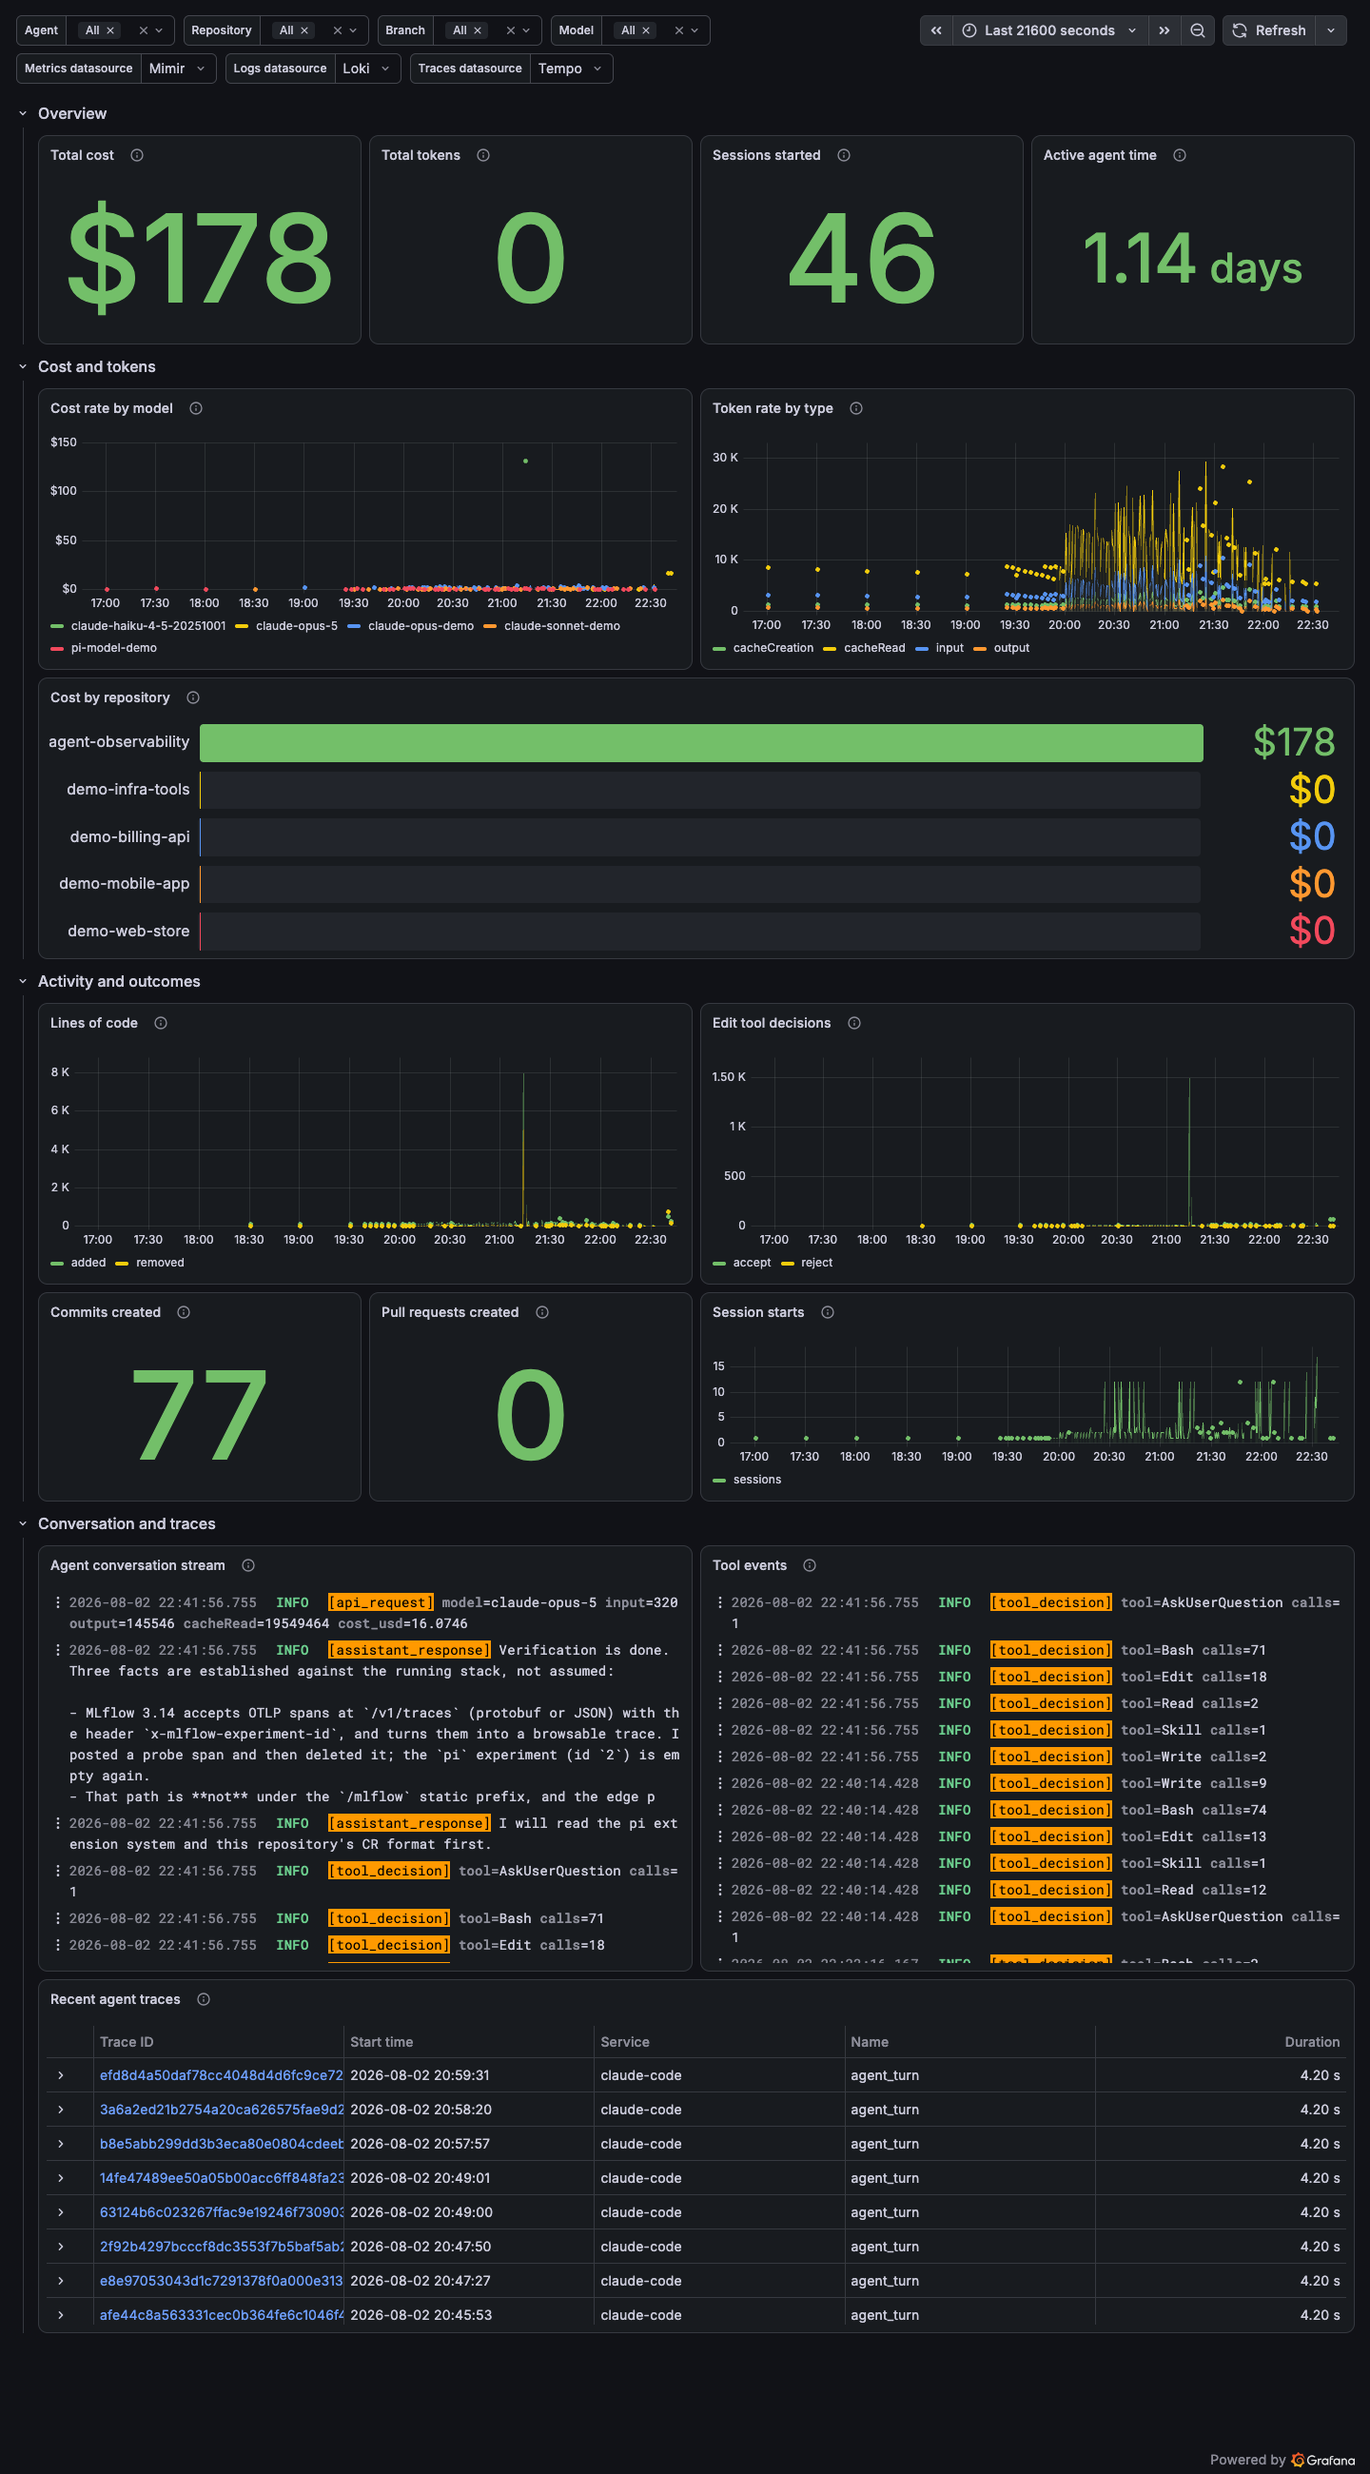
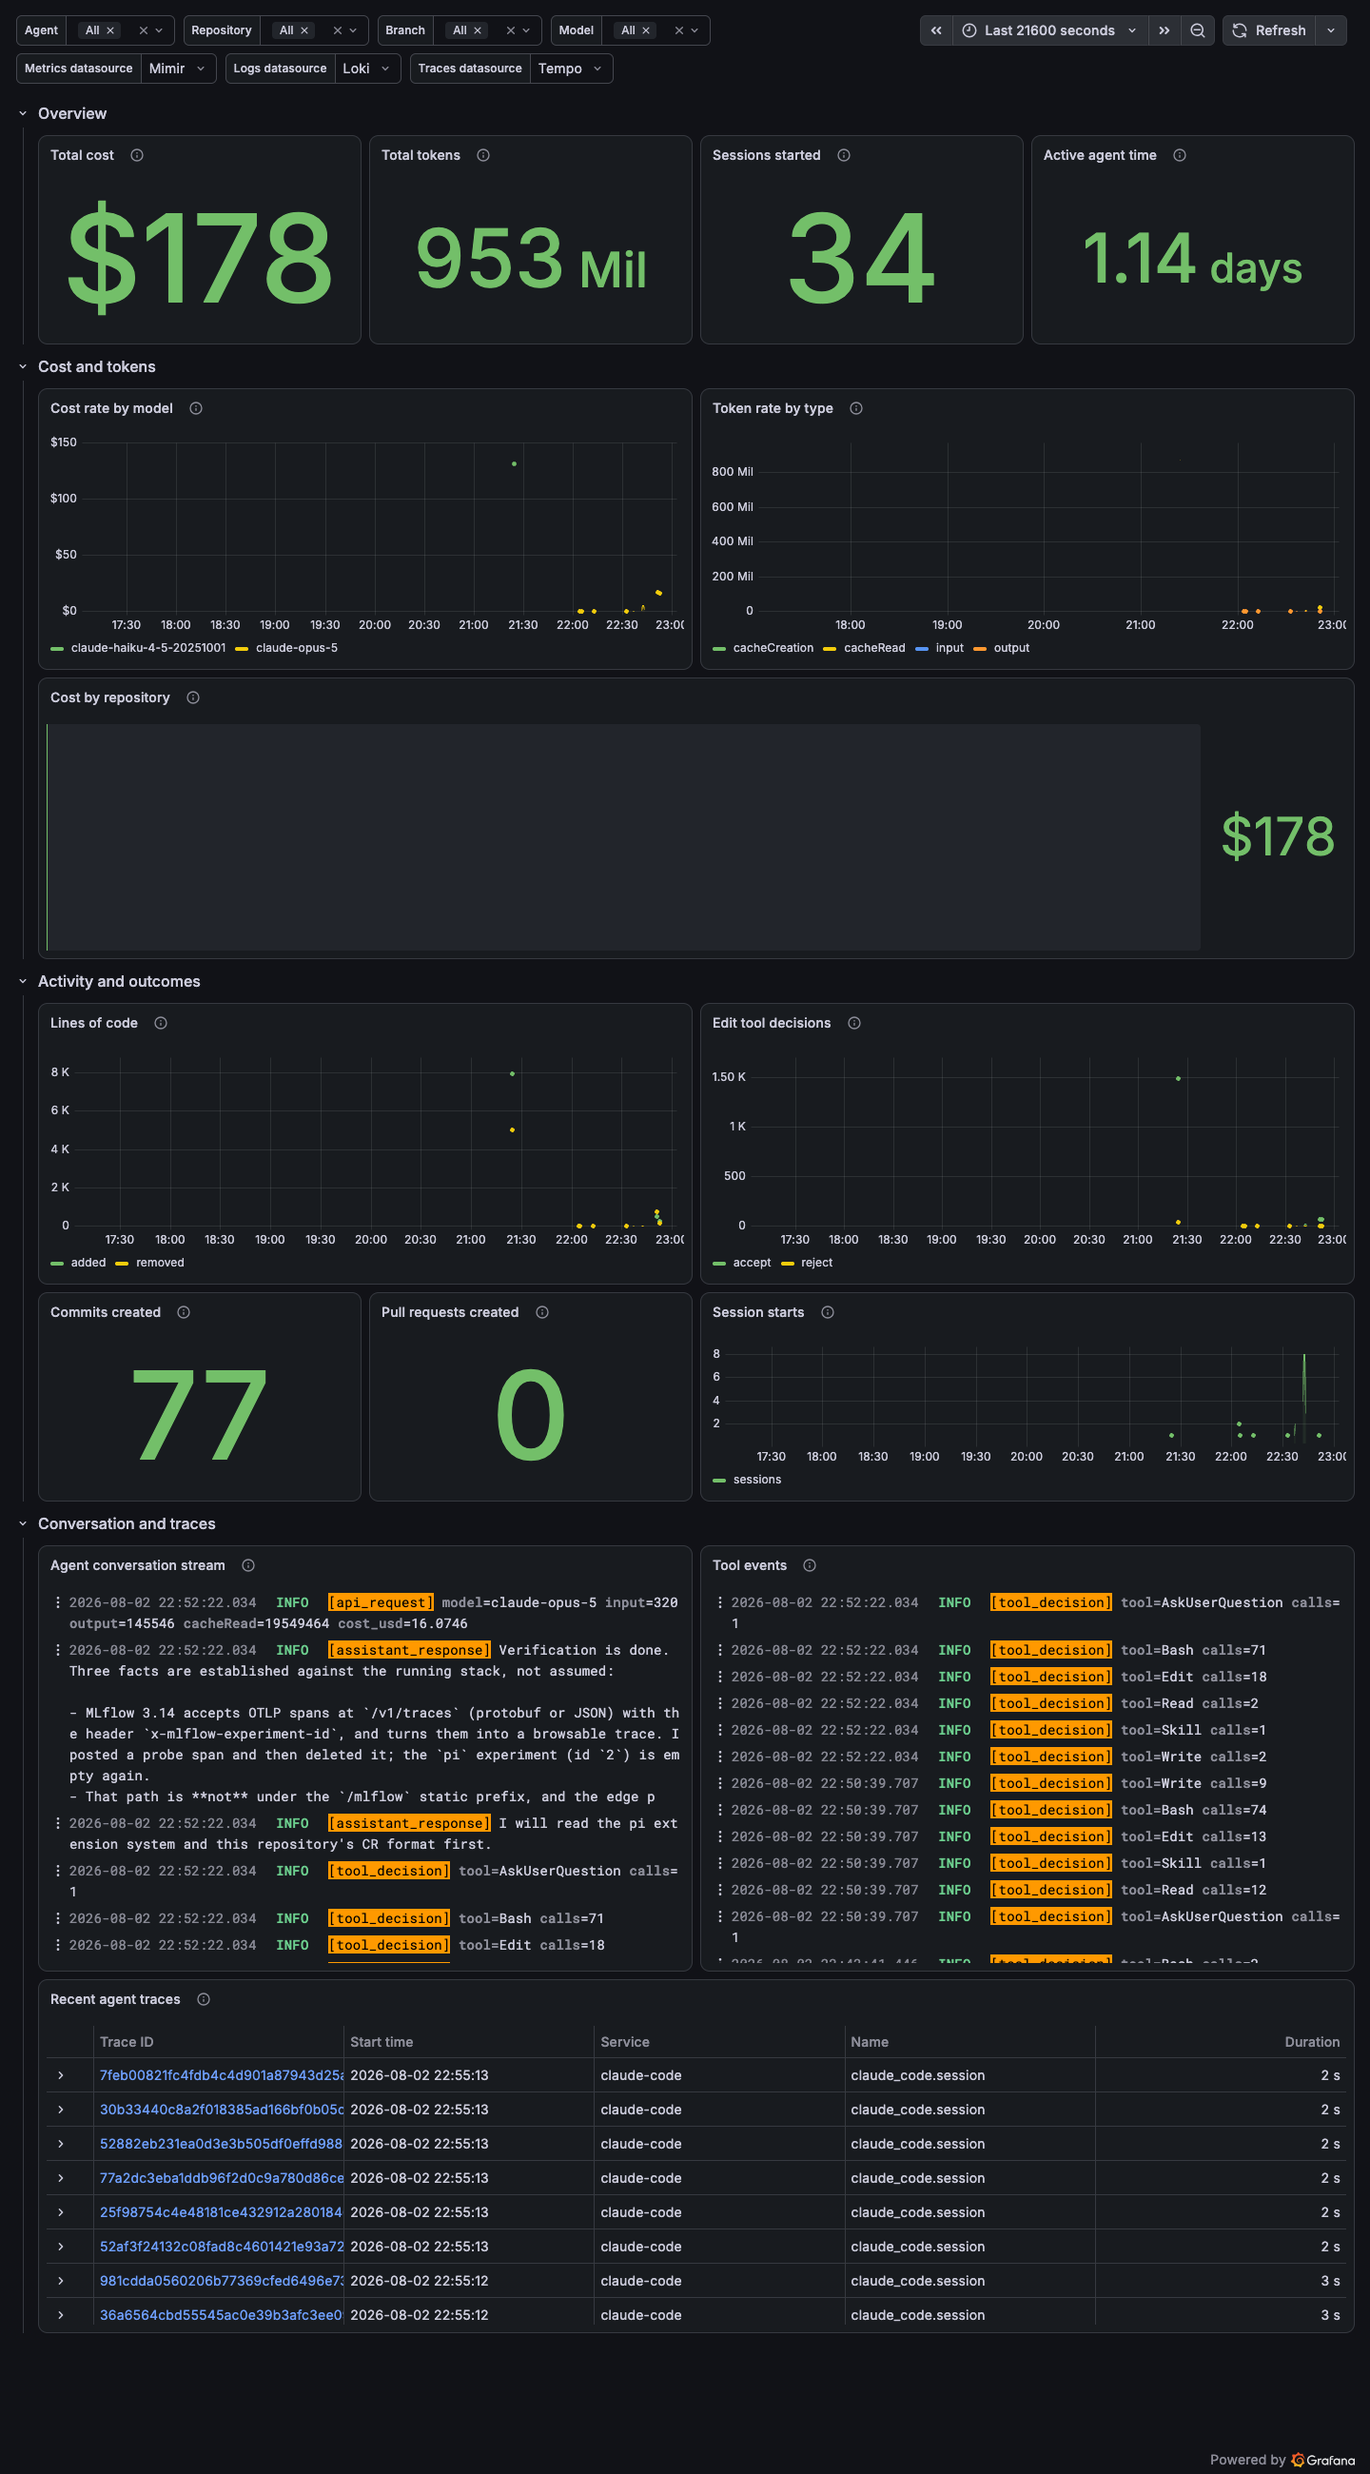
checkpoint(CR-0007-iterate): re-import clean, add MLflow conversations, recapture
Attempt 4 left the label set changed, so a re-import would have double
counted until the volumes were wiped, and the conversation view still
showed seeded data because the importer wrote no MLflow traces.

- scripts/transcript.import.mlflow.py: writes the richest imported
  sessions as MLflow conversation traces, a turn span per exchange with
  a tool span beneath it, plus a span per subagent.
- scripts/transcript.import.sh: runs it after the OTLP write, and skips
  rather than fails when uv is absent, since the dashboard is already
  populated by that point.
- scripts/capture.screenshots.sh: no longer keys MLflow navigation on a
  seed-specific request string.
- Volumes wiped, stack rebuilt, transcripts re-imported, images recaptured.

The wipe was verified against the right target first: this directory
resolves to project agent-observability on 24417, and the separate
project holding real telemetry was confirmed still running afterwards.

One marker in the store now. Total tokens reads 953,038,772 both with
and without the model filter, so the Attempt 4 defect is fixed and there
is no double count. 34 sessions, $177.79, 77 commits, 8 conversations.

make ci initially failed correctly: the AGENTS.md verifier asserts every
documented metric family exists in the store, and a Claude-Code-only
import leaves the pi_* families absent. Fixed by restoring them with the
seed rather than by weakening the assertion. make ci now exits 0.
[…]

diff --git a/scripts/transcript.import.mlflow.py b/scripts/transcript.import.mlflow.py
@@ -1,0 +1,134 @@
+"""Write imported agent sessions into MLflow as browsable conversation traces.
+
+@agents-index Reads the session summaries the transcript importer produced and writes each as one MLflow trace, a root conversation span with a turn span per exchange and a tool span beneath it, tagged so it is distinguishable from seeded data.
+
+Purpose: the dashboard, the log view, and the trace view all populate from the
+main importer, but the conversation view is MLflow's, and MLflow needs a client
+rather than an OTLP push. That client is version-matched and resolved through uv,
+the same way the demo seed resolves it, so this runs as a separate step rather
+than inside the stdlib-only importer.
+
+Why a separate file: the main importer deliberately depends on nothing outside
+the standard library, so it runs anywhere python3 does. Bringing MLflow into it
+would put a resolved dependency in the path of the metric, log, and trace write,
+which is the part that must not fail for want of a package.
+
+Shape of a written trace, mirroring what live conversation tracing produces:
+
+  root    the conversation, carrying the session identifier and the model
+  turn    one span per exchange, with the token counts and computed cost
+  tool    one span per tool the turn used, with the call count
+
+Every trace is tagged `session_import=true` and `git.org=session-import`, so it
+is selectable and distinguishable from a seeded conversation at a glance.
+
+Usage (invoked by scripts/transcript.import.sh, not directly):
+  uv run --python 3.12 --with mlflow==3.14.0 python \
+      scripts/transcript.import.mlflow.py SUMMARIES_JSON
+
+Environment:
+  MLFLOW_TRACKING_URI   The tracking server, through the single edge port.
+"""
+
+import json
+import os
+import sys
+
+import mlflow
+
+# How many conversations to write. The view is for browsing rather than for
+# bulk, and every session already appears in the metric, log, and trace stores,
+# so a handful of the richest sessions is the useful shape rather than all of
+# them.
+MAX_CONVERSATIONS = 8
+
+
+def main():
+    if len(sys.argv) < 2:
+        print("import-mlflow: FAIL no summaries file was given.", file=sys.stderr)
+        print("  Fix: this script is invoked by scripts/transcript.import.sh, which passes the path.", file=sys.stderr)
+        print("  After: run 'scripts/transcript.import.sh' rather than this file directly.", file=sys.stderr)
+        sys.exit(2)
+
+    with open(sys.argv[1]) as fh:
+        sessions = json.load(fh)
+
+    # Richest first: a conversation with more turns shows more of the shape.
+    sessions.sort(key=lambda s: (-s.get("turns", 0), s.get("id", "")))
+    sessions = sessions[:MAX_CONVERSATIONS]
+
+    mlflow.set_tracking_uri(os.environ["MLFLOW_TRACKING_URI"])
+    mlflow.set_experiment("claude-code")
+
+    written = 0
+    for s in sessions:
+        prompts = s.get("prompts") or []
+        responses = s.get("responses") or []
+        if not prompts and not responses:
+            continue
+        model = s.get("model") or "unknown"
+        turns = max(1, min(len(prompts), len(responses)) or 1)
+        # Cost and tokens are the session totals, so attribute a proportional
+        # share to each turn rather than repeating the whole figure on each one.
+        per_turn_cost = (s.get("cost") or 0.0) / turns
+        per_turn_in = (s.get("input", 0) + s.get("cacheRead", 0)) // turns
+        per_turn_out = (s.get("output", 0)) // turns
+        tools = sorted((s.get("tools") or {}).items(), key=lambda kv: -kv[1])
+
+        with mlflow.start_span(name="agent_conversation", span_type="AGENT") as root:
+            root.set_inputs({"messages": [{"role": "user", "content": p} for p in prompts[:2]]})
+            mlflow.update_current_trace(
+                tags={
+                    "session_import": "true",
+                    "git.org": "session-import",
+                    "git.repo": s.get("repo") or "agent-observability",
+                    "session.id": s.get("id", "")[:8],
+                    "model": model,
+                }
+            )
+            for idx in range(turns):
+                prompt = prompts[idx] if idx < len(prompts) else ""
+                response = responses[idx] if idx < len(responses) else ""
+                with mlflow.start_span(name=f"assistant_turn_{idx + 1}", span_type="LLM") as turn:
+                    turn.set_inputs({"prompt": prompt})
+                    turn.set_attributes(
+                        {
+                            "model": model,
+                            "tokens.input": per_turn_in,
+                            "tokens.output": per_turn_out,
+                            "cost_usd": round(per_turn_cost, 4),
+                        }
+                    )
+                    # One tool span per turn, cycling through the tools the
+                    # session actually used, so the nesting is visible.
+                    if tools:
+                        name, count = tools[idx % len(tools)]
+                        with mlflow.start_span(name=name, span_type="TOOL") as tool:
+                            tool.set_inputs({"tool": name})
+                            tool.set_outputs({"calls_in_session": count})
+                    turn.set_outputs({"response": response})
+
+            # A subagent that ran in this session becomes its own span, because
+            # that relationship exists nowhere else in the stack.
+            for sub in (s.get("subagents") or [])[:3]:
+                with mlflow.start_span(name=f"subagent:{sub['type']}", span_type="AGENT") as sp:
+                    sp.set_inputs({"agent_type": sub["type"], "model": sub.get("model")})
+                    sp.set_attributes(
+                        {
+                            "duration_s": round((sub.get("ms") or 0) / 1000.0, 1),
+                            "tokens.total": sub.get("tokens") or 0,
+                            "tool_uses": sub.get("tool_uses") or 0,
+                        }
+                    )
+                    sp.set_outputs({"status": sub.get("status")})
+
+            root.set_outputs(
+                {"messages": [{"role": "assistant", "content": r} for r in responses[:2]]}
+            )
+        written += 1
+
+    print(f"import-mlflow: wrote {written} conversation trace(s)")
+
+
+if __name__ == "__main__":
+    main()

diff --git a/scripts/transcript.import.py b/scripts/transcript.import.py
@@ -574,6 +574,9 @@ def main():
     parser.add_argument("--dry-run", action="store_true")
     parser.add_argument("--transcripts", default=None)
     parser.add_argument("--repo-root", default=None)
+    # Written for the MLflow step, which runs under a resolved client rather
+    # than in this stdlib-only process. See transcript.import.mlflow.py.
+    parser.add_argument("--summaries-out", default=None)
     args = parser.parse_args()
 
     repo_root = args.repo_root or os.getcwd()
@@ -629,6 +632,16 @@ def main():
                 )
         emit_trace(base_url, summary, repo_name, args.dry_run)
         written += 1
+
+    if args.summaries_out:
+        payload = []
+        for s in ordered:
+            row = dict(s)
+            row["cost"] = session_cost(s, pricing, set())
+            row["repo"] = repo_name
+            payload.append(row)
+        with open(args.summaries_out, "w") as fh:
+            json.dump(payload, fh)
 
     subagent_total = sum(len(s["subagents"]) for s in ordered)
     tool_total = sum(sum(s["tools"].values()) for s in ordered)

diff --git a/docs/cr/CR-0007-iterate.md b/docs/cr/CR-0007-iterate.md
@@ -130,11 +130,30 @@ worktree: "/Users/desek/Repo/desek/experiments/agent-observability"
 
 * **Supersedes:** nothing. Attempt 3 chose the span this importer reuses.
 
+### Attempt 5 — wipe, re-import clean, write MLflow conversations, and recapture
+
+* **Change:** `scripts/transcript.import.mlflow.py` writes the richest imported sessions into MLflow as conversation traces, with a turn span per exchange, a tool span beneath it, and a span per subagent. `scripts/transcript.import.sh` runs it after the metric, log, and trace write. `scripts/capture.screenshots.sh` no longer keys the MLflow navigation on a seed-specific request string. Volumes wiped, stack rebuilt, transcripts re-imported, both images recaptured.
+
+* **Reason:** Attempt 4 left the label set changed, so a re-import would have double counted until the volumes were wiped, and the conversation view still showed seeded data because the importer wrote no MLflow traces.
+
+* **Evidence:** the wipe was verified against the right target before it ran. This directory resolves to compose project `agent-observability` on port 24417; the other project on 24417's neighbour, `observability` on 24317, holds the real telemetry and was confirmed still running afterwards.
+
+  After the clean import the store holds one marker, `session-import`. Total tokens now reads 953,038,772 both with and without the model filter, which is the Attempt 4 defect fixed and the double count absent. 34 sessions, $177.79, 77 commits, 8 MLflow conversation traces.
+
+  `make ci` initially failed, correctly. The AGENTS.md verifier asserts that every metric family the documentation names exists in the store, and a Claude-Code-only import leaves the `pi_*` families absent. That is the check working rather than a fault in it, so the fix was to restore the families by seeding rather than to weaken the assertion. `make ci` then exits 0, read as an exit code rather than inferred from the last line.
+
+  A privacy incident occurred during this attempt and is recorded here because the cause is a property of the tooling rather than a one-off slip. Debugging the MLflow navigation outside the capture script's own flow, a bare screenshot captured the author's personal browser rather than the stack: agent-browser drives a persistent session that is the real browser, so a screenshot with no preceding navigation photographs whatever the active target is. The frame was deleted immediately and reached no commit; both committed images were confirmed to be the Grafana and MLflow interfaces. The capture script itself is protected only by ordering, because it navigates with `ab open` immediately before each frame, and that is a thinner margin than it looks for a script whose output is a public image. A recording is worse than a still, since it captures the whole duration rather than one moment. Pinning the capture to an isolated browser profile is the durable fix and is not done here.
+
+  The MLflow navigation was diagnosed but not fixed. Two overlays intercept the click, a first-visit guidance popover and the MLflow Assistant panel, and the correct handle is the snapshot-and-ref workflow rather than a CSS or text selector. The captured conversation image therefore still shows the trace list rather than an expanded conversation, which the author accepted for now.
+
+* **Supersedes:** nothing. Attempt 4 introduced the importer this completes.
+
 ## What Stands Now
 
 * The stack holds the real work: 34 imported sessions, 2815 tool calls, 57 subagents, cost computed from a pinned price table rather than invented.
 * Screenshot capture permits imported data only behind `CAPTURE_ALLOW_IMPORT=1`, which states that the prompt and response text in any captured image is real.
-* The MLflow conversation image still shows seeded data; the importer does not write MLflow traces yet.
+* The importer writes MLflow conversation traces, so all four stores hold imported data. The captured conversation image still shows the trace list rather than an expanded conversation: two overlays intercept the click and the fix is the snapshot-and-ref workflow, diagnosed but not applied.
+* Screenshot capture drives a persistent browser session that is the real browser, protected only by navigating immediately before each frame. Pinning it to an isolated profile is the durable fix and is outstanding.
 * The metric store accepts back-dated samples up to 72 hours. Verified at 6, 24, 48, and 71 hours, with 100 hours correctly refused.
 * The seeded dataset spans about an hour and a half, which is the widest span every backend accepts without changing a storage setting. Loki is the binding constraint at roughly two hours, anchored to a chunk edge. Tempo accepts no history at all, so seeded traces are written at the present moment.
 * Back-dated samples older than roughly twelve hours are not immediately queryable. They become visible after the block ships and the store synchronises, which is up to fifteen minutes on the current settings. Anything that seeds history and then reads or photographs it must account for that delay, or the settings that govern it must change.
